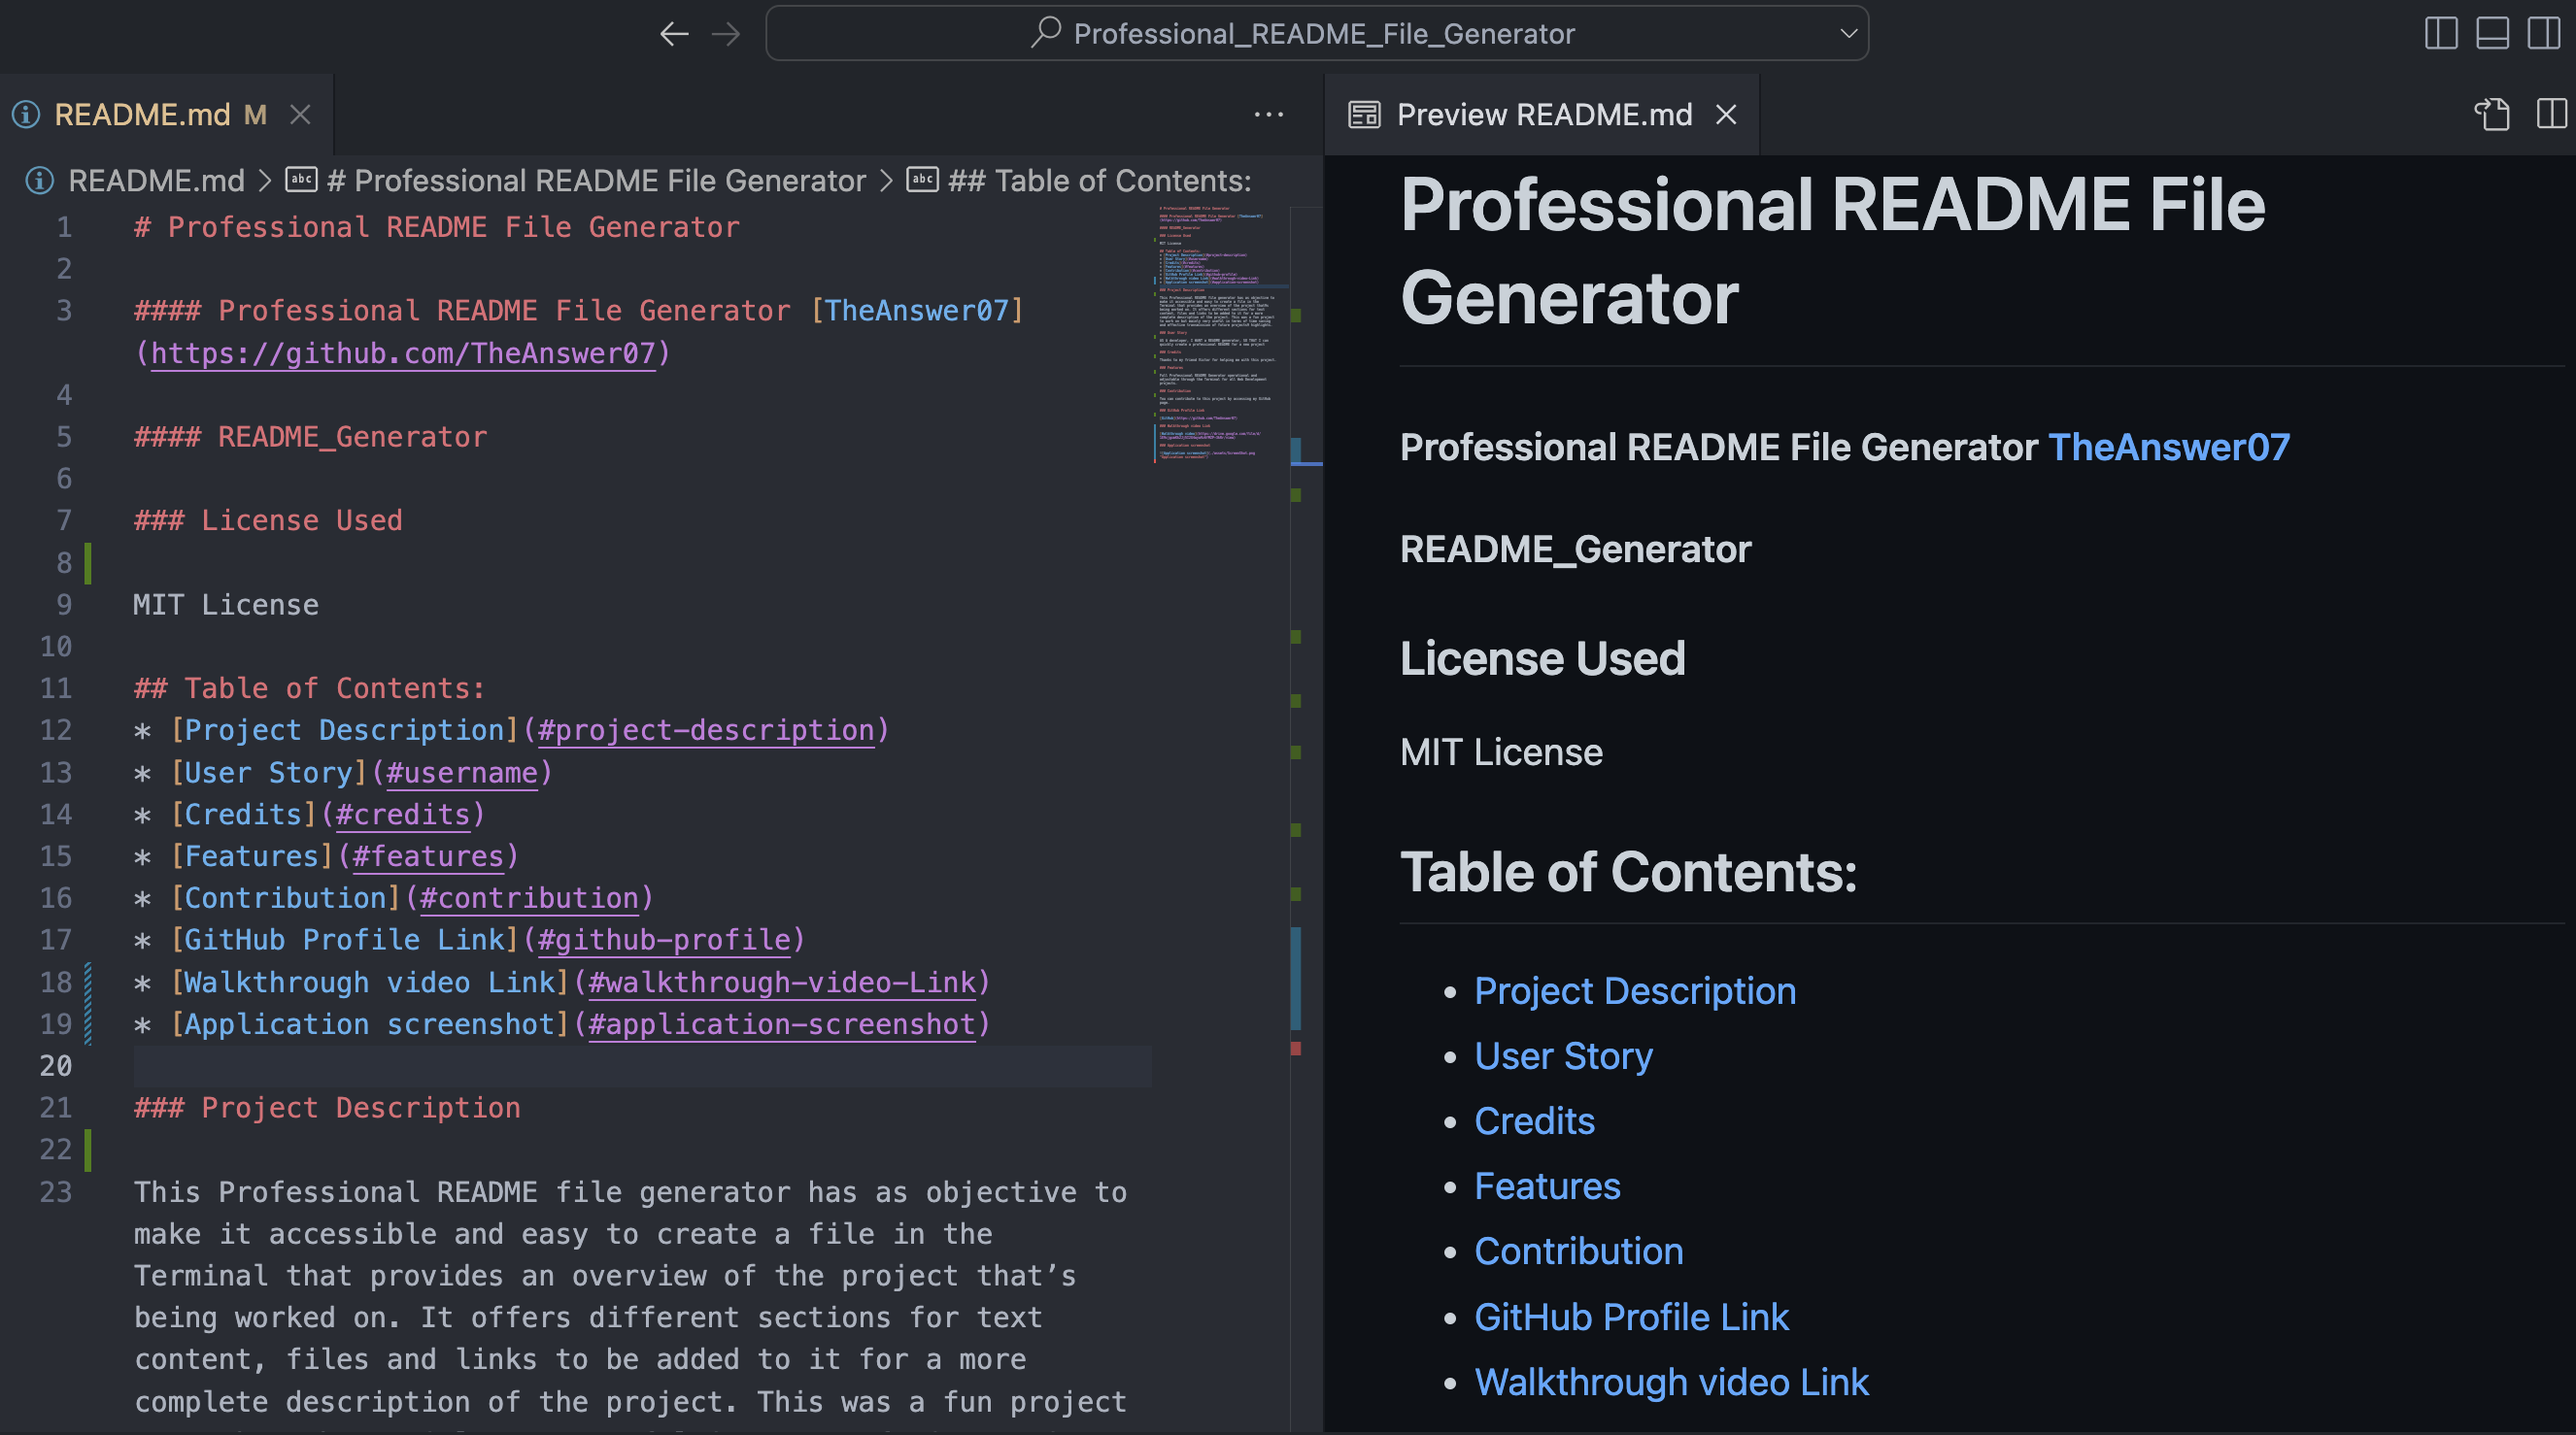
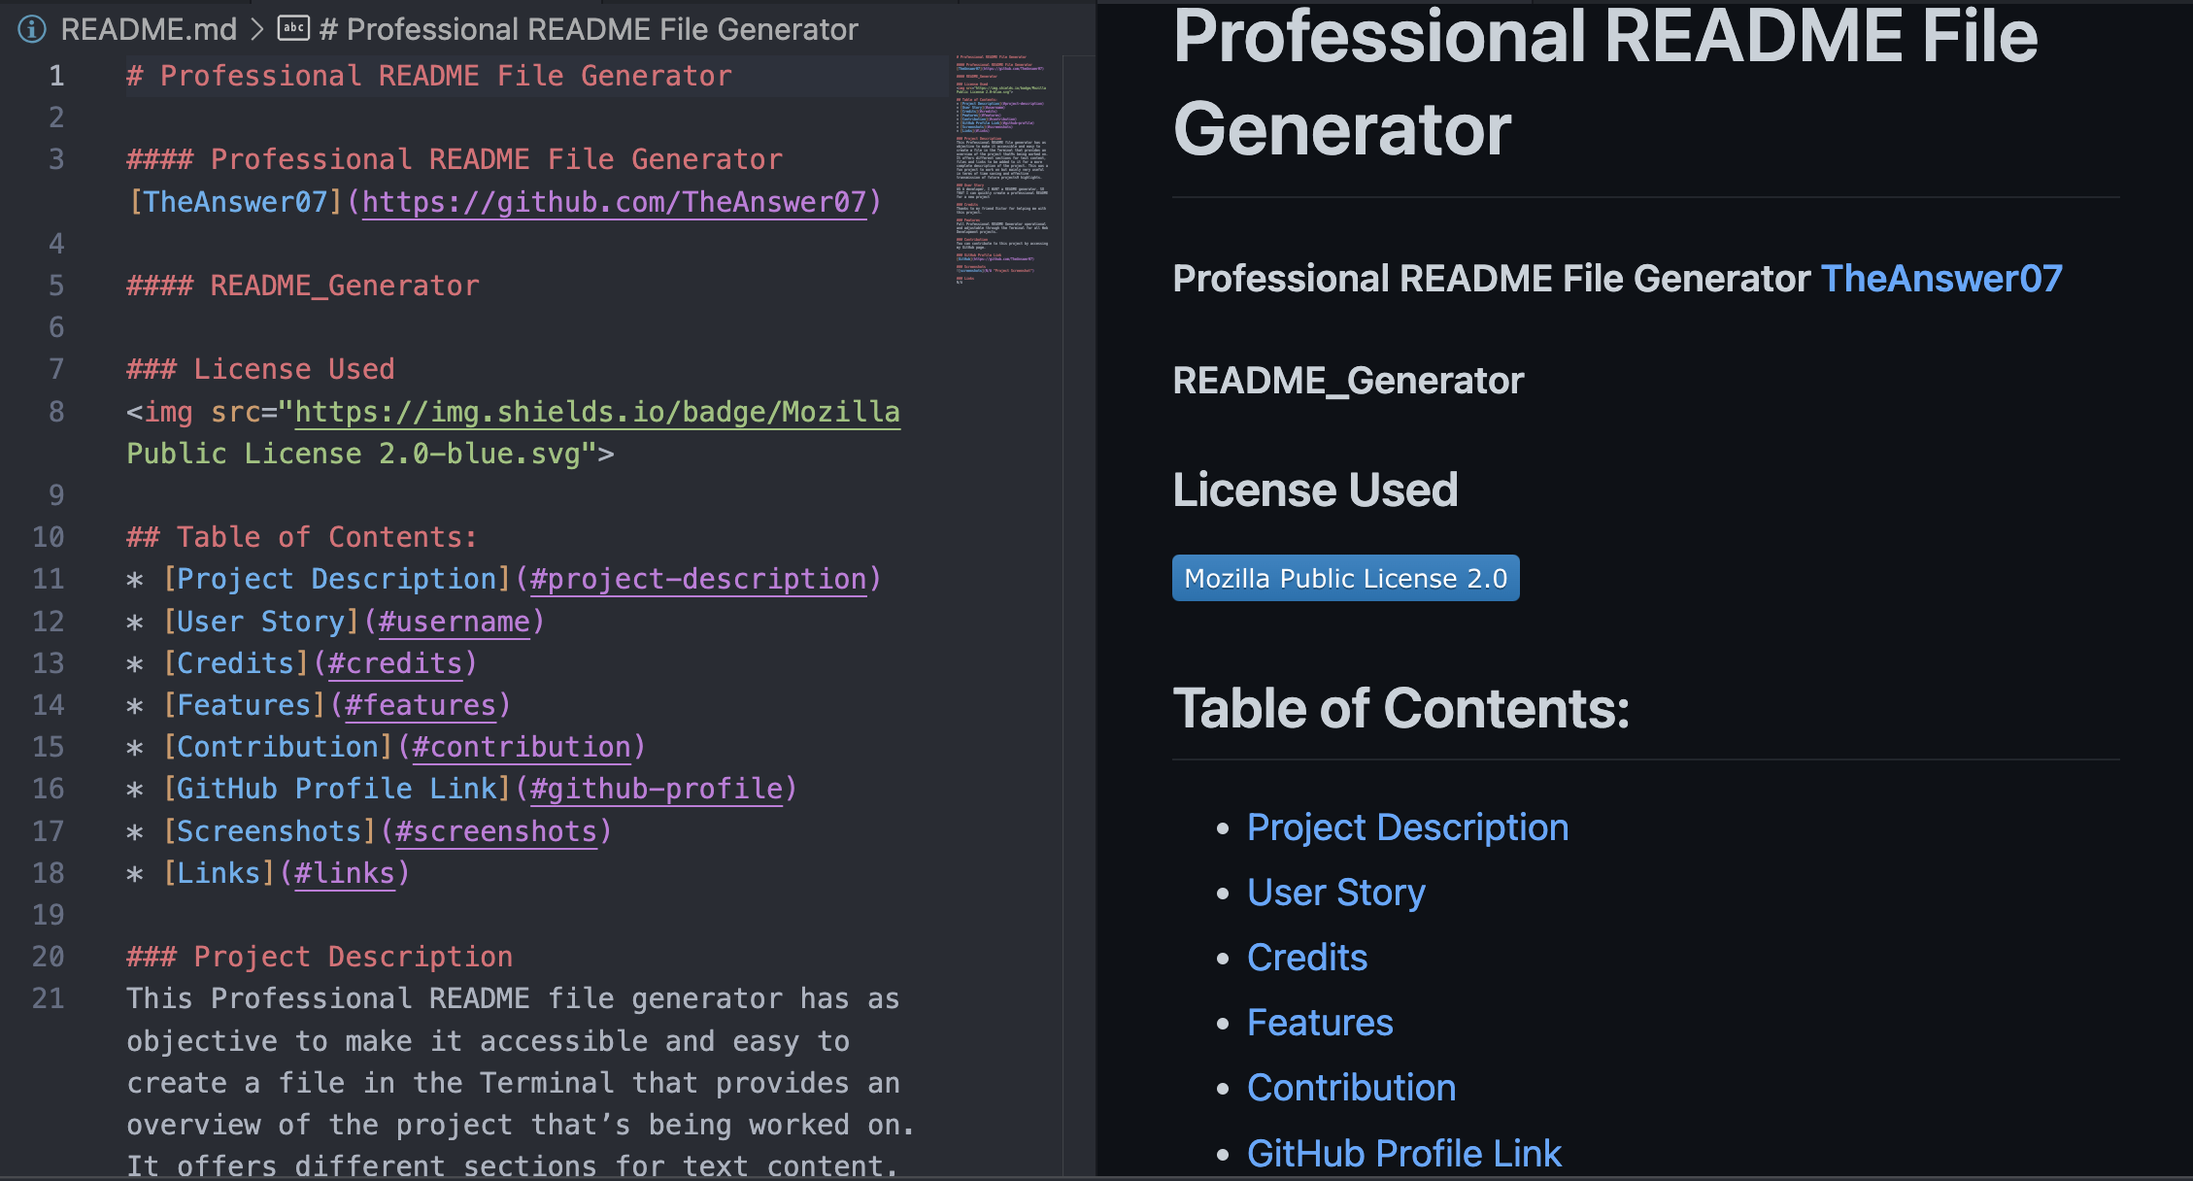
Application screenshot and walkthrough video link added to README file

Changed region(s): [[0.0, 0.0, 1.0, 1.0], [0.961, 0.0625, 1.0, 0.0938]]

diff --git a/fileGenerator.js b/fileGenerator.js
@@ -9,12 +9,13 @@ function fileGenerator(response) {
 <img src="https://img.shields.io/badge/${response.license}-blue.svg">
 
 ## Table of Contents:
-* [Project Description](#project-description)
+* [Project Description](#description)
 * [User Story](#username)
 * [Credits](#credits)
 * [Features](#features)
 * [Contribution](#contribution)
-* [GitHub Profile Link](#github-profile)
+* [GitHub Profile Link](#github)
+* [Walkthrough Video Link](#video)
 * [Screenshots](#screenshots)
 * [Links](#links)
   
@@ -35,6 +36,9 @@ ${response.contribution}
 
 ### GitHub Profile Link
 [GitHub](${response.github})
+
+### Walkthrough Video Link
+[Walkthrough Video Link](${response.video})
 
 ### Screenshots
 ![screenshots](${response.screenshots} "Project Screenshot")

diff --git a/README.md b/README.md
@@ -1,0 +1,47 @@
+# Professional README File Generator
+
+#### Professional README File Generator [TheAnswer07](https://github.com/TheAnswer07)
+
+#### README_Generator
+
+### License Used
+<img src="https://img.shields.io/badge/Mozilla Public License 2.0-blue.svg">
+
+## Table of Contents:
+* [Project Description](#description)
+* [User Story](#username)
+* [Email](#email)
+* [Credits](#credits)
+* [Features](#features)
+* [Contribution](#contribution)
+* [GitHub Profile Link](#github)
+* [Walkthrough Video Link](#video)
+* [Screenshots](#screenshots)
+  
+### Project Description
+This Professional README file generator has as objective to make it accessible and easy to create a file in the Terminal that provides an overview of the project that’s being worked on. It offers different sections for text content, files and links to be added to it for a more complete description of the project. This was a fun project to work on but mainly very useful in terms of time saving and effective transmission of future projects’ highlights.
+
+### User Story
+AS A developer, I WANT a README generator, SO THAT I can quickly create a professional README for a new project
+
+### Email
+md@gmail.com
+
+### Credits
+Thanks to my friend Victor for helping me with this project.
+
+### Features
+Full Professional README Generator operational and adjustable through the Terminal for all Web Development projects.
+
+### Contribution
+You can contribute to this project by accessing my GitHub page.
+
+### GitHub Profile Link
+[GitHub](https://github.com/TheAnswer07)
+
+### Walkthrough Video Link
+[Walkthrough Video Link](https://drive.google.com/file/d/1E9cjgxmKk2Jj5I2G4wya9z6fMZP-3kRr/view)
+
+### Screenshots
+![screenshots](assets/Application%20screenshot.png "Project Screenshot")
+
